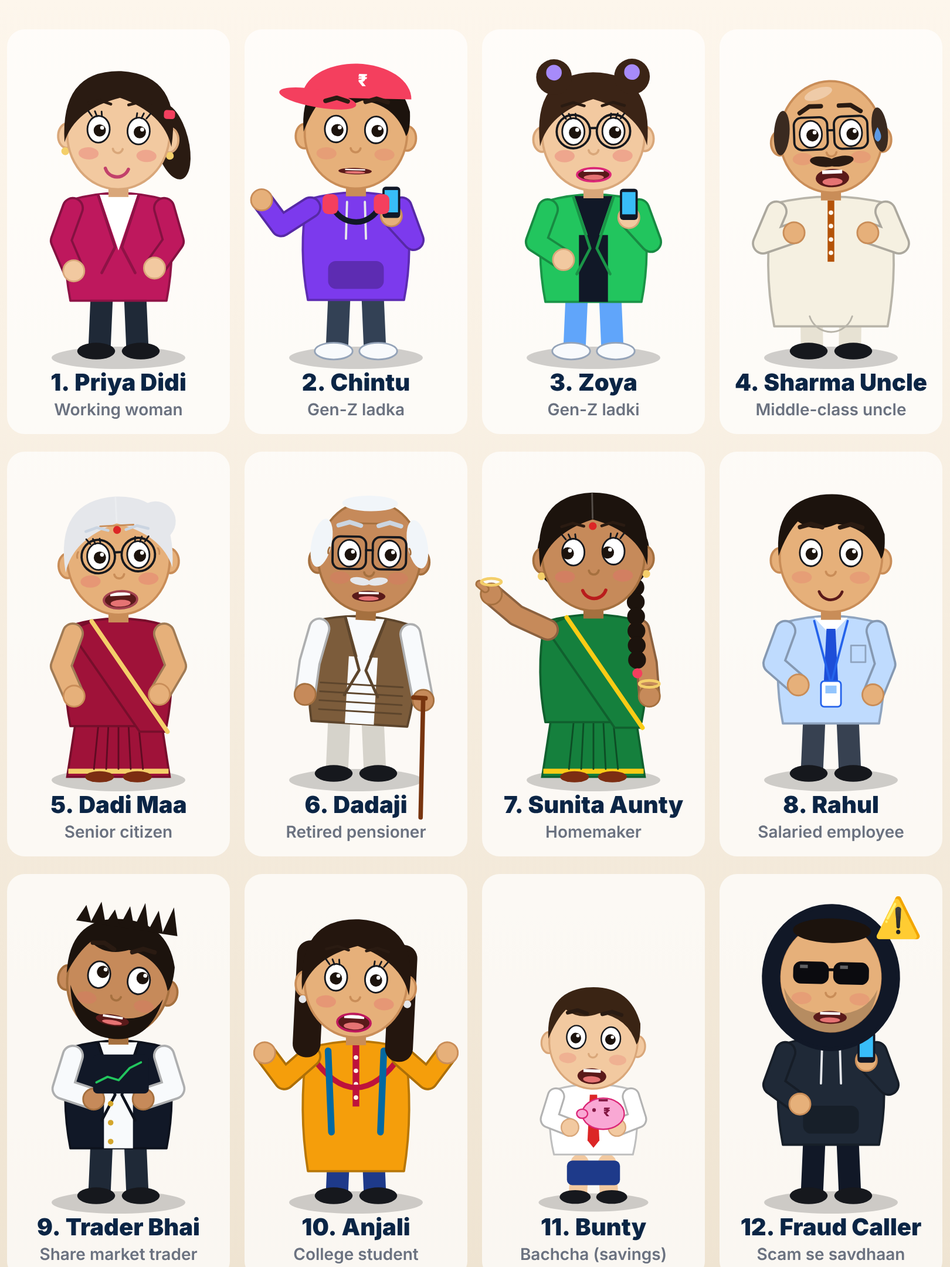
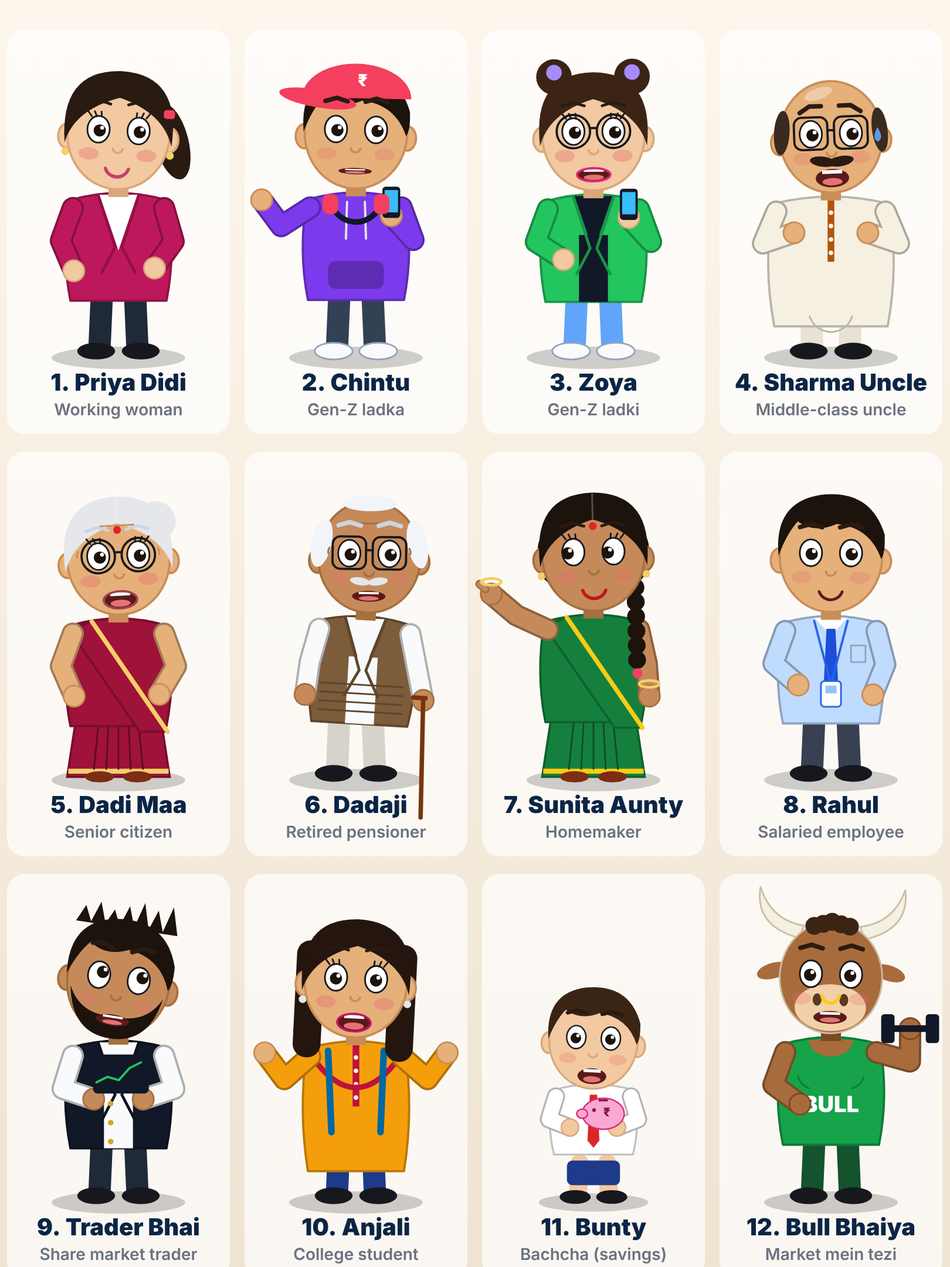
Add 12 more fun cartoon characters (bull, bear, EMI ghost, robot, etc.)
Claude-Session: https://claude.ai/code/session_015sQdHrE7jeFxfbNfg4Vfef

Changed region(s): [[0.7716, 0.7134, 0.9877, 1.0]]

diff --git a/videos/engine/cast.js b/videos/engine/cast.js
@@ -4,7 +4,7 @@
 //   await character(fj, { who: 'chintu', x: 200, y: 1450, scale: 0.7, moods: [{ t0, t1, mood }] , ampFrom: [t0, t1] });
 const cl = (v, a = 0, b = 1) => Math.max(a, Math.min(b, v)), pr = (t, a, b) => cl((t - a) / (b - a));
 const eb = v => { const c1 = 1.70158, c3 = c1 + 1; return 1 + c3 * Math.pow(v - 1, 3) + c1 * Math.pow(v - 1, 2); };
-const SK = { light: ['#f2c9a0', '#d9a77a'], wheat: ['#e6b07a', '#c98d58'], brown: ['#c68a5a', '#a5703f'], dark: ['#9a6640', '#7a4e2e'] };
+const SK = { bull: ['#a86b3c', '#7c4a22'], bear: ['#7a4a2e', '#5a341e'], metal: ['#cbd5e1', '#94a3b8'], light: ['#f2c9a0', '#d9a77a'], wheat: ['#e6b07a', '#c98d58'], brown: ['#c68a5a', '#a5703f'], dark: ['#9a6640', '#7a4e2e'] };
 
 export const CAST = {
   priya: { name: 'Priya Didi', role: 'Working woman', skin: 'light', hair: 'ponytail', hairC: '#2a1b12', female: true, outfit: 'blazer', main: '#be185d', inner: '#ffffff', tie: null, lower: 'pants', lowerC: '#1f2937', earrings: '#f4cf6a', specs: null, lips: '#c2416b' },
@@ -18,6 +18,18 @@ export const CAST = {
   trader: { name: 'Trader Bhai', role: 'Share market trader', skin: 'brown', hair: 'spiky', hairC: '#1c130d', outfit: 'halfjacket', main: '#111827', inner: '#f8fafc', accent: '#d4a62c', lower: 'pants', lowerC: '#1f2937', beard: true, props: ['tablet'] },
   anjali: { name: 'Anjali', role: 'College student', skin: 'wheat', hair: 'long', hairC: '#24160e', female: true, outfit: 'kurti', main: '#f59e0b', accent: '#be123c', lower: 'pants', lowerC: '#1e3a8a', props: ['backpack'], earrings: '#e5e7eb', lips: '#be185d' },
   bunty: { name: 'Bunty', role: 'Bachcha (savings)', skin: 'light', hair: 'short', hairC: '#3a2414', outfit: 'school', main: '#ffffff', accent: '#1e3a8a', tie: '#dc2626', lower: 'shorts', lowerC: '#1e3a8a', kid: true, props: ['piggy'] },
+  bull: { name: 'Bull Bhaiya', role: 'Market mein tezi', species: 'bull', skin: 'bull', hair: 'tuft', hairC: '#3b2414', outfit: 'tank', main: '#16a34a', print: 'BULL', printC: '#ffffff', lower: 'pants', lowerC: '#14532d', snout: '#f2d0a9', props: ['dumbbell'] },
+  bear: { name: 'Bear Bhau', role: 'Market mein mandi', species: 'bear', skin: 'bear', hair: 'none', outfit: 'hoodie', main: '#b91c1c', lower: 'pants', lowerC: '#450a0a', snout: '#d9b48f' },
+  ghost: { name: 'EMI Bhoot', role: 'Loan ka darr', species: 'ghost' },
+  robo: { name: 'RoboBhai', role: 'AI advisor', species: 'robot', skin: 'metal', hair: 'none', outfit: 'robot', main: '#94a3b8', lower: 'pants', lowerC: '#64748b', shoes: '#475569' },
+  tipsguru: { name: 'Tips Guru', role: 'Fake finfluencer', skin: 'wheat', hair: 'shadesup', hairC: '#1c130d', outfit: 'suit', main: '#7e22ce', inner: '#111827', lower: 'pants', lowerC: '#581c87', moustache: 'thin', shoes: '#f8fafc', props: ['chain', 'cash'] },
+  ca: { name: 'CA Saab', role: 'Tax expert', skin: 'light', hair: 'neat', hairC: '#1c130d', outfit: 'shirt', main: '#ffffff', tie: '#0f766e', lower: 'pants', lowerC: '#1f2937', specs: 'square', props: ['calculator'] },
+  manager: { name: 'Manager Madam', role: 'Bank manager', female: true, skin: 'wheat', hair: 'bun', hairC: '#1c130d', outfit: 'blazer', main: '#1e3a8a', inner: '#fde68a', lower: 'pants', lowerC: '#1e293b', specs: 'square', earrings: '#f4cf6a', lips: '#9f1239', props: ['files'] },
+  chaiwala: { name: 'Chaiwala Bhaiya', role: 'UPI wala dukaandaar', skin: 'brown', hair: 'short', hairC: '#1c130d', outfit: 'apron', main: '#fef3c7', accent: '#92400e', lower: 'pants', lowerC: '#57534e', moustache: 'thin', props: ['kettle', 'qr'] },
+  delivery: { name: 'Delivery Bhai', role: 'Gig worker', skin: 'wheat', hair: 'helmet', hairC: '#1c130d', helmetC: '#f97316', outfit: 'tshirt', main: '#f97316', print: '10 MIN ⚡', printC: '#ffffff', lower: 'pants', lowerC: '#1f2937', props: ['deliverybag', 'phone'] },
+  dulhan: { name: 'Neha (Dulhan)', role: 'Shaadi ka budget', female: true, skin: 'light', hair: 'bridal', hairC: '#1c130d', outfit: 'lehenga', main: '#be123c', accent: '#f4cf6a', bindi: true, earrings: '#f4cf6a', lips: '#be123c', props: ['bangles'] },
+  gymbro: { name: 'Gym Bro Vicky', role: 'Paisa bhi gains', skin: 'wheat', hair: 'headband', hairC: '#1c130d', bandC: '#22d3ee', outfit: 'tank', main: '#111827', print: 'GAINS', printC: '#22d3ee', lower: 'shorts', lowerC: '#334155', shoes: '#f8fafc', props: ['dumbbell'] },
+  paaji: { name: 'Gurpreet Paaji', role: 'Business owner', skin: 'wheat', hair: 'turban', hairC: '#1c130d', turbanC: '#f59e0b', outfit: 'kurta', main: '#e0f2fe', accent: '#0369a1', lower: 'pants', lowerC: '#1e293b', beard: true },
   fraud: { name: 'Fraud Caller', role: 'Scam se savdhaan', skin: 'wheat', hair: 'hood', hairC: '#1c130d', outfit: 'hoodie', main: '#1f2937', lower: 'pants', lowerC: '#111827', shades: true, stubble: true, props: ['phone', 'warning'] },
 };
 
@@ -42,16 +54,18 @@ const dark = (hex, k = 0.75) => { const n = parseInt(hex.slice(1), 16); const f 
 export function drawPerson(c, t, X, Y, S, P, mood, lv, flip) {
   const [SKIN, SKIN_D] = SK[P.skin] || SK.wheat, F = !!P.female, K = P.kid ? 0.78 : 1, belly = P.belly || 1;
   c.save(); c.translate(X, Y); c.scale(S * (flip ? -1 : 1), S);
+  if (P.species === 'ghost') { drawGhost(c, t, mood, lv); c.restore(); return; }
   const bob = Math.sin(t * 3.2) * 4, talk = cl(lv * 1.4), shock = mood === 'shock';
   const happy = mood === 'happy' || mood === 'thumbs' || mood === 'wave';
   c.fillStyle = 'rgba(0,0,0,0.18)'; c.beginPath(); c.ellipse(0, 0, 120, 20, 0, 0, 7); c.fill();
   // ---- lower body ----
   const legTop = -110 * K;
-  if (P.outfit === 'saree') {
+  if (P.outfit === 'saree' || P.outfit === 'lehenga') {
     c.fillStyle = P.main; c.strokeStyle = dark(P.main); c.lineWidth = 4;
     c.beginPath(); c.moveTo(-70, -150); c.lineTo(70, -150); c.lineTo(92, -6); c.lineTo(-92, -6); c.closePath(); c.fill(); c.stroke();
     c.strokeStyle = P.accent; c.lineWidth = 9; c.beginPath(); c.moveTo(-90, -16); c.lineTo(90, -16); c.stroke();
     for (let i = -2; i <= 2; i++) limb(c, [[i * 16, -140], [i * 22, -20]], 3, dark(P.main, 0.6));
+    if (P.outfit === 'lehenga') { c.fillStyle = P.accent; for (let i = 0; i < 26; i++) { c.beginPath(); c.arc(-70 + (i * 37) % 140, -130 + Math.floor(i / 4) * 18, 3, 0, 7); c.fill(); } }
     c.fillStyle = '#7c2d12'; [-1, 1].forEach(s => { c.beginPath(); c.ellipse(s * 34, -6, 26, 10, 0, 0, 7); c.fill(); });
   } else {
     const lc = P.lowerC || '#2f3540', sh = P.lower === 'shorts';
@@ -65,11 +79,21 @@ export function drawPerson(c, t, X, Y, S, P, mood, lv, flip) {
   const top = -280 * (P.kid ? 0.86 : 1), bottom = P.outfit === 'kurta' || P.outfit === 'kurti' ? -60 : -100;
   // backpack behind
   if ((P.props || []).includes('backpack')) { c.fillStyle = '#0ea5e9'; c.beginPath(); c.roundRect(-80, top + 20, 160, 150, 30); c.fill(); }
+  if ((P.props || []).includes('deliverybag')) { c.fillStyle = '#16a34a'; c.beginPath(); c.roundRect(-104, top - 30, 208, 190, 16); c.fill(); c.fillStyle = '#fff'; c.font = '900 26px Inter'; c.textAlign = 'center'; c.fillText('FOOD', 0, top - 4); }
   // ---- torso ----
   const tw = 88 * belly, M = P.main, MD = dark(M);
   c.fillStyle = M; c.strokeStyle = MD; c.lineWidth = 4;
   c.beginPath(); c.moveTo(-tw, top); c.quadraticCurveTo(-tw * 1.18, (top + bottom) / 2, -tw * 0.98, bottom); c.lineTo(tw * 0.98, bottom); c.quadraticCurveTo(tw * 1.18, (top + bottom) / 2, tw, top); c.quadraticCurveTo(0, top - 26, -tw, top); c.closePath(); c.fill(); c.stroke();
   const o = P.outfit;
+  if (o === 'suit') { c.fillStyle = P.inner; c.beginPath(); c.moveTo(-34, top - 10); c.lineTo(0, top + 90); c.lineTo(34, top - 10); c.closePath(); c.fill(); limb(c, [[-36, top - 8], [-6, top + 84], [-30, top + 130]], 5, MD); limb(c, [[36, top - 8], [6, top + 84], [30, top + 130]], 5, MD); c.fillStyle = '#f4cf6a'; c.beginPath(); c.moveTo(48, top + 56); c.lineTo(70, top + 50); c.lineTo(66, top + 66); c.closePath(); c.fill(); }
+  if (o === 'tshirt' || o === 'tank' || o === 'apron') {
+    c.fillStyle = SKIN; c.beginPath(); c.ellipse(0, top - 8, o === 'tank' ? 40 : 30, o === 'tank' ? 30 : 18, 0, 0, Math.PI); c.fill();
+    if (o === 'tank') { c.strokeStyle = MD; c.lineWidth = 3; [-1, 1].forEach(s => { c.beginPath(); c.arc(s * 30, top + 50, 30, s > 0 ? 0.3 : 1.9, s > 0 ? 1.3 : 2.9); c.stroke(); }); }
+    if (P.print) { c.fillStyle = P.printC || '#fff'; c.font = `900 ${P.print.length > 6 ? 28 : 40}px Inter, "Noto Color Emoji", sans-serif`; c.textAlign = 'center'; c.textBaseline = 'middle'; c.fillText(P.print, 0, top + 110); }
+    if (o === 'apron') { c.fillStyle = P.accent; c.beginPath(); c.roundRect(-54, top + 40, 108, bottom - top - 30, 10); c.fill(); limb(c, [[-40, top + 44], [-30, top - 6]], 6, P.accent); limb(c, [[40, top + 44], [30, top - 6]], 6, P.accent); c.fillStyle = '#fef3c7'; c.font = '900 30px Inter'; c.textAlign = 'center'; c.fillText('CHAI ☕', 0, top + 110); }
+  }
+  if (o === 'robot') { c.fillStyle = '#1e293b'; c.beginPath(); c.roundRect(-50, top + 40, 100, 80, 10); c.fill(); c.strokeStyle = '#22d3ee'; c.lineWidth = 4; c.beginPath(); [[0, 60], [20, 46], [40, 52], [60, 30], [80, 20]].forEach(([a, b], i) => i ? c.lineTo(-40 + a, top + 40 + b) : c.moveTo(-40 + a, top + 40 + b)); c.stroke(); c.fillStyle = '#64748b'; [[-70, top + 20], [70, top + 20], [-70, bottom - 20], [70, bottom - 20]].forEach(([x, y]) => { c.beginPath(); c.arc(x, y, 6, 0, 7); c.fill(); }); }
+  if (o === 'lehenga') { c.globalAlpha = 0.75; c.fillStyle = P.accent; c.beginPath(); c.moveTo(-tw, top + 4); c.quadraticCurveTo(0, top + 160, tw, top + 4); c.lineTo(tw - 16, top - 6); c.quadraticCurveTo(0, top + 130, -tw + 16, top - 6); c.closePath(); c.fill(); c.globalAlpha = 1; }
   if (o === 'blazer' || o === 'jacket' || o === 'halfjacket' || o === 'sweater') {
     c.fillStyle = P.inner || '#fff'; c.beginPath(); c.moveTo(-34, top - 10); c.lineTo(0, top + 90); c.lineTo(34, top - 10); c.closePath(); c.fill();
     if (o !== 'blazer') { c.fillRect(-26, top + 60, 52, bottom - top - 60); }
@@ -101,6 +125,7 @@ export function drawPerson(c, t, X, Y, S, P, mood, lv, flip) {
   // lanyard
   if ((P.props || []).includes('lanyard')) { limb(c, [[-30, top - 4], [0, top + 110], [30, top - 4]], 4, '#2563eb'); c.fillStyle = '#fff'; c.strokeStyle = '#2563eb'; c.lineWidth = 3; c.beginPath(); c.roundRect(-18, top + 104, 36, 46, 6); c.fill(); c.stroke(); c.fillStyle = '#93c5fd'; c.fillRect(-10, top + 112, 20, 14); }
   if ((P.props || []).includes('backpack')) { limb(c, [[-50, top + 4], [-44, top + 150]], 12, '#0369a1'); limb(c, [[50, top + 4], [44, top + 150]], 12, '#0369a1'); }
+  if ((P.props || []).includes('chain')) { c.strokeStyle = '#facc15'; c.lineWidth = 7; c.beginPath(); c.arc(0, top - 10, 52, 0.4, Math.PI - 0.4); c.stroke(); c.fillStyle = '#facc15'; c.font = '900 34px Inter'; c.textAlign = 'center'; c.fillText('$', 0, top + 50); }
   // ---- arms ----
   const sw = Math.sin(t * 9);
   let L = [-0.22, -0.08, 'fist'], R = [0.22, 0.08, 'fist'];
@@ -118,7 +143,13 @@ export function drawPerson(c, t, X, Y, S, P, mood, lv, flip) {
   if (props.includes('piggy') && !shock) { L = [-0.3, 1.2, 'fist']; R = [0.3, -1.2, 'piggy']; }
   if (props.includes('tablet') && mood !== 'wave' && !shock) { L = [-0.3, 1.25, 'fist']; R = [0.3, -1.25, 'tablet']; }
   if (props.includes('newspaper') && mood === 'talk') { L = [-0.3, 1.25, 'fist']; R = [0.3, -1.25, 'paper']; }
-  const sleeve = o === 'saree' ? SKIN : o === 'halfjacket' || o === 'sweater' ? (P.inner || '#fff') : o === 'kurti' ? P.main : M;
+  if (props.includes('kettle') && !shock && mood !== 'wave') R = [0.3, -1.2, 'kettle'];
+  if (props.includes('qr') && !shock) L = [-0.3, 1.25, 'qr'];
+  if (props.includes('calculator') && !shock && mood !== 'wave') R = [0.3, -1.25, 'calc'];
+  if (props.includes('files') && !shock) L = [-0.3, 1.25, 'files'];
+  if (props.includes('cash') && !shock && mood !== 'wave') R = [1.1, 2.7, 'cash'];
+  if (props.includes('dumbbell') && !shock && mood !== 'wave') R = [1.3, 2.9 + 0.25 * Math.sin(t * 5), 'dumbbell'];
+  const sleeve = o === 'saree' || o === 'tank' || o === 'lehenga' ? SKIN : o === 'halfjacket' || o === 'sweater' ? (P.inner || '#fff') : o === 'kurti' ? P.main : M;
   const armLen = P.kid ? 52 : 62, sy = top + 14;
   const hands = [[-tw + 6, L], [tw - 6, R]].map(([sx, A]) => arm(c, sx, sy, A[0], A[1], armLen, A[2], sleeve, SKIN, SKIN_D, P));
   // ---- head ----
@@ -126,13 +157,17 @@ export function drawPerson(c, t, X, Y, S, P, mood, lv, flip) {
   const tilt = Math.sin(t * 1.7) * 0.05 + (mood === 'think' ? 0.12 : 0) + (shock ? Math.sin(t * 40) * 0.03 : 0);
   const HY = top - 120 * (P.kid ? 0.9 : 1);
   c.save(); c.translate(0, HY); c.rotate(tilt); if (P.kid) c.scale(1.05, 1.05);
+  if (P.species === 'robot') { robotHead(c, t, talk, mood); } else {
   hairBack(c, P);
   c.fillStyle = SKIN; c.strokeStyle = SKIN_D; c.lineWidth = 4;
-  [-1, 1].forEach(s => { c.beginPath(); c.ellipse(s * 92, 8, 16, 22, 0, 0, 7); c.fill(); c.stroke(); });
+  if (P.species === 'bull') { [-1, 1].forEach(s => { c.fillStyle = '#f5f0e1'; c.strokeStyle = '#c9bfa6'; c.lineWidth = 3; c.beginPath(); c.moveTo(s * 60, -70); c.quadraticCurveTo(s * 140, -90, s * 130, -160); c.quadraticCurveTo(s * 110, -100, s * 50, -92); c.closePath(); c.fill(); c.stroke(); c.fillStyle = SKIN; c.beginPath(); c.ellipse(s * 104, -10, 30, 14, s * 0.3, 0, 7); c.fill(); }); }
+  else if (P.species === 'bear') { [-1, 1].forEach(s => { c.fillStyle = SKIN; c.beginPath(); c.arc(s * 66, -80, 30, 0, 7); c.fill(); c.fillStyle = P.snout; c.beginPath(); c.arc(s * 66, -80, 15, 0, 7); c.fill(); }); c.fillStyle = SKIN; }
+  else [-1, 1].forEach(s => { c.beginPath(); c.ellipse(s * 92, 8, 16, 22, 0, 0, 7); c.fill(); c.stroke(); });
   if (P.earrings) [-1, 1].forEach(s => { c.fillStyle = P.earrings; c.beginPath(); c.arc(s * 94, 36, 7, 0, 7); c.fill(); });
   c.fillStyle = SKIN; c.beginPath(); c.ellipse(0, 0, 92, 100, 0, 0, 7); c.fill(); c.stroke();
   if (P.stubble || P.beard) { c.fillStyle = P.beard ? '#1c130d' : 'rgba(40,30,25,0.25)'; c.beginPath(); c.moveTo(-84, 20); c.quadraticCurveTo(-70, 104, 0, 104); c.quadraticCurveTo(70, 104, 84, 20); c.quadraticCurveTo(60, 70, 0, 64); c.quadraticCurveTo(-60, 70, -84, 20); c.fill(); }
   hairFront(c, P, t);
+  if (P.snout) { c.fillStyle = P.snout; c.beginPath(); c.ellipse(0, 54, P.species === 'bull' ? 64 : 52, P.species === 'bull' ? 42 : 36, 0, 0, 7); c.fill(); if (P.species === 'bull') { c.fillStyle = '#5a3a22'; [-1, 1].forEach(s => { c.beginPath(); c.ellipse(s * 24, 40, 8, 11, 0, 0, 7); c.fill(); }); c.strokeStyle = '#facc15'; c.lineWidth = 6; c.beginPath(); c.arc(0, 30, 16, 0.2, Math.PI - 0.2); c.stroke(); } else { c.fillStyle = '#1c130d'; c.beginPath(); c.ellipse(0, 30, 16, 11, 0, 0, 7); c.fill(); } }
   c.fillStyle = 'rgba(232,110,110,' + (F ? 0.38 : 0.26) + ')'; [-1, 1].forEach(s => { c.beginPath(); c.ellipse(s * 52, 38, 18, 11, 0, 0, 7); c.fill(); });
   if (P.wrinkles) { c.strokeStyle = SKIN_D; c.lineWidth = 3; [-1, 1].forEach(s => { c.beginPath(); c.arc(s * 60, -8, 14, s > 0 ? -0.6 : Math.PI - 0.2, s > 0 ? 0.2 : Math.PI + 0.6); c.stroke(); }); limb(c, [[-30, -60], [30, -60]], 3, SKIN_D); }
   // eyes
@@ -156,7 +191,7 @@ export function drawPerson(c, t, X, Y, S, P, mood, lv, flip) {
   const browC = P.hair === 'white' || P.hair === 'whitebun' ? '#cbd5e1' : '#2a1b12';
   if (!P.shades) [-1, 1].forEach(s => { c.save(); c.translate(s * 36, -46 + bU); c.rotate(s * bA); limb(c, [[-20, 2], [0, -4], [20, 2]], F ? 5 : 8, browC); c.restore(); });
   if (P.bindi) { c.fillStyle = '#dc2626'; c.beginPath(); c.arc(0, -52, 7, 0, 7); c.fill(); }
-  c.strokeStyle = SKIN_D; c.lineWidth = 4; c.beginPath(); c.arc(0, 26, 9, 0.2, Math.PI - 0.2); c.stroke();
+  if (!P.species) { c.strokeStyle = SKIN_D; c.lineWidth = 4; c.beginPath(); c.arc(0, 26, 9, 0.2, Math.PI - 0.2); c.stroke(); }
   if (P.moustache) { c.fillStyle = P.moustache === 'white' ? '#e5e7eb' : '#2a1b12'; const k = P.moustache === 'thick' ? 1.3 : 1; c.beginPath(); c.ellipse(-16, 44, 18 * k, 7 * k, 0.15, 0, 7); c.ellipse(16, 44, 18 * k, 7 * k, -0.15, 0, 7); c.fill(); }
   // mouth
   const mo = shock ? 0.75 + talk * 0.25 : talk, mc = P.lips || '#5a1a1a';
@@ -172,6 +207,7 @@ export function drawPerson(c, t, X, Y, S, P, mood, lv, flip) {
     c.stroke();
   }
   if (mood === 'worried' || shock) { const d = (t * 0.8) % 1; c.fillStyle = 'rgba(96,165,250,0.9)'; c.beginPath(); c.moveTo(84, -40 + d * 30); c.quadraticCurveTo(96, -20 + d * 30, 84, -14 + d * 30); c.quadraticCurveTo(72, -20 + d * 30, 84, -40 + d * 30); c.fill(); }
+  }
   c.restore();
   // headphones around neck
   if (props.includes('headphones')) { c.strokeStyle = '#111827'; c.lineWidth = 10; c.beginPath(); c.arc(0, top - 6, 46, 0.15, Math.PI - 0.15); c.stroke(); [-1, 1].forEach(s => { c.fillStyle = '#f43f5e'; c.beginPath(); c.roundRect(s * 46 - 14, top - 10, 28, 36, 10); c.fill(); }); }
@@ -190,13 +226,19 @@ function arm(c, sx, sy, a1, a2, len, hand, sleeve, SKIN, SKIN_D, P) {
   if (hand === 'stick') { limb(c, [[hx, hy], [hx + 8, hy + 210]], 8, '#78350f'); limb(c, [[hx - 18, hy - 4], [hx + 4, hy - 4]], 8, '#78350f'); }
   if (hand === 'piggy') { c.fillStyle = '#f9a8d4'; c.strokeStyle = '#db2777'; c.lineWidth = 3; c.beginPath(); c.ellipse(hx - 30, hy - 30, 46, 34, 0, 0, 7); c.fill(); c.stroke(); c.beginPath(); c.ellipse(hx - 76, hy - 30, 12, 10, 0, 0, 7); c.fill(); c.stroke(); c.fillStyle = '#831843'; c.fillRect(hx - 40, hy - 62, 20, 5); c.beginPath(); c.arc(hx - 50, hy - 38, 4, 0, 7); c.fill(); c.font = '900 26px Inter'; c.textAlign = 'center'; c.fillText('₹', hx - 22, hy - 24); }
   if (hand === 'tablet') { c.fillStyle = '#111827'; c.beginPath(); c.roundRect(hx - 90, hy - 80, 100, 70, 8); c.fill(); c.strokeStyle = '#22c55e'; c.lineWidth = 4; c.beginPath(); [[0, 50], [20, 40], [40, 46], [60, 24], [80, 14]].forEach(([a, b], i) => i ? c.lineTo(hx - 84 + a, hy - 80 + b) : c.moveTo(hx - 84 + a, hy - 80 + b)); c.stroke(); }
+  if (hand === 'kettle') { c.fillStyle = '#9ca3af'; c.strokeStyle = '#4b5563'; c.lineWidth = 3; c.beginPath(); c.ellipse(hx + 6, hy - 40, 34, 28, 0, 0, 7); c.fill(); c.stroke(); limb(c, [[hx + 38, hy - 46], [hx + 66, hy - 66]], 8, '#6b7280'); c.beginPath(); c.arc(hx + 6, hy - 70, 8, 0, 7); c.fillStyle = '#4b5563'; c.fill(); for (let k = 0; k < 3; k++) limb(c, [[hx - 10 + k * 14, hy - 96], [hx - 4 + k * 14, hy - 120]], 4, 'rgba(255,255,255,0.7)'); }
+  if (hand === 'qr') { c.fillStyle = '#fff'; c.strokeStyle = '#111'; c.lineWidth = 4; c.beginPath(); c.rect(hx - 50, hy - 110, 100, 110); c.fill(); c.stroke(); c.fillStyle = '#111'; for (let i = 0; i < 7; i++) for (let j = 0; j < 7; j++) if ((i * 7 + j * 3) % 4 < 2 || (i < 2 && j < 2)) c.fillRect(hx - 42 + i * 12, hy - 102 + j * 12, 10, 10); c.font = '900 16px Inter'; c.textAlign = 'center'; c.fillText('UPI', hx, hy - 12); }
+  if (hand === 'calc') { c.fillStyle = '#334155'; c.beginPath(); c.roundRect(hx - 70, hy - 96, 70, 96, 8); c.fill(); c.fillStyle = '#a7f3d0'; c.fillRect(hx - 62, hy - 88, 54, 20); c.fillStyle = '#e2e8f0'; for (let i = 0; i < 3; i++) for (let j = 0; j < 3; j++) c.fillRect(hx - 62 + i * 18, hy - 60 + j * 18, 14, 14); }
+  if (hand === 'files') { ['#f59e0b', '#3b82f6', '#ef4444'].forEach((col, i) => { c.fillStyle = col; c.fillRect(hx - 10 + i * 4, hy - 100 + i * 6, 80, 96); }); c.fillStyle = '#fff'; c.font = '900 16px Inter'; c.textAlign = 'center'; c.fillText('LOAN', hx + 38, hy - 40); }
+  if (hand === 'cash') { for (let i = -3; i <= 3; i++) { c.save(); c.translate(hx, hy - 10); c.rotate(i * 0.18); c.fillStyle = '#86efac'; c.strokeStyle = '#15803d'; c.lineWidth = 2; c.fillRect(-14, -90, 28, 80); c.strokeRect(-14, -90, 28, 80); c.fillStyle = '#15803d'; c.font = '900 18px Inter'; c.textAlign = 'center'; c.fillText('₹', 0, -50); c.restore(); } }
+  if (hand === 'dumbbell') { c.fillStyle = '#111827'; c.fillRect(hx - 40, hy - 6, 80, 12); [-1, 1].forEach(s => { c.beginPath(); c.roundRect(hx + s * 40 - 12, hy - 26, 24, 52, 6); c.fill(); }); }
   if (hand === 'paper') { c.fillStyle = '#f8fafc'; c.strokeStyle = '#94a3b8'; c.lineWidth = 2; c.beginPath(); c.rect(hx - 100, hy - 90, 100, 80); c.fill(); c.stroke(); c.fillStyle = '#334155'; c.font = '900 14px Inter'; c.textAlign = 'left'; c.fillText('SENSEX', hx - 92, hy - 70); for (let i = 0; i < 4; i++) c.fillRect(hx - 92, hy - 60 + i * 11, 80, 4); }
   return [hx, hy];
 }
 
 function hairBack(c, P) {
   c.fillStyle = P.hairC;
-  if (P.hair === 'long') { [-1, 1].forEach(k => { c.beginPath(); c.roundRect(k > 0 ? 58 : -108, -70, 50, 210, 24); c.fill(); }); }
+  if (P.hair === 'long' || P.hair === 'bridal') { [-1, 1].forEach(k => { c.beginPath(); c.roundRect(k > 0 ? 58 : -108, -70, 50, 210, 24); c.fill(); }); }
   if (P.hair === 'braid') { c.beginPath(); c.roundRect(-100, -60, 200, 120, 50); c.fill(); for (let i = 0; i < 6; i++) { c.beginPath(); c.ellipse(74, 60 + i * 26, 16, 16, 0, 0, 7); c.fill(); } c.fillStyle = '#f43f5e'; c.beginPath(); c.arc(74, 214, 9, 0, 7); c.fill(); }
   if (P.hair === 'ponytail') { c.beginPath(); c.ellipse(96, 10, 30, 70, -0.3, 0, 7); c.fill(); }
   if (P.hair === 'whitebun') { c.beginPath(); c.arc(70, -64, 36, 0, 7); c.fill(); }
@@ -218,5 +260,42 @@ function hairFront(c, P, t) {
     if (h === 'ponytail') { c.fillStyle = '#f43f5e'; c.beginPath(); c.roundRect(80, -46, 20, 16, 5); c.fill(); }
   }
   if (h === 'buns2') [-1, 1].forEach(s => { c.fillStyle = P.hairC; c.beginPath(); c.arc(s * 70, -104, 32, 0, 7); c.fill(); c.fillStyle = P.hairTip; c.beginPath(); c.arc(s * 70, -112, 14, 0, 7); c.fill(); });
+  if (h === 'neat' || h === 'shadesup' || h === 'headband') { c.beginPath(); c.moveTo(-94, 0); c.quadraticCurveTo(-100, -100, 0, -108); c.quadraticCurveTo(100, -104, 94, 0); c.quadraticCurveTo(80, -56, 20, -62); c.lineTo(-30, -66); c.quadraticCurveTo(-80, -50, -94, 0); c.fill(); if (h === 'neat') { c.strokeStyle = 'rgba(255,255,255,0.5)'; c.lineWidth = 4; c.beginPath(); c.moveTo(-30, -104); c.quadraticCurveTo(-36, -84, -30, -66); c.stroke(); } }
+  if (h === 'shadesup') { c.fillStyle = '#0b0b0f'; [-1, 1].forEach(s => { c.beginPath(); c.roundRect(s * 34 - 30, -104, 60, 30, 12); c.fill(); }); }
+  if (h === 'headband') { c.fillStyle = P.bandC; c.fillRect(-94, -70, 188, 22); c.beginPath(); c.moveTo(90, -64); c.lineTo(122, -40); c.lineTo(112, -30); c.closePath(); c.fill(); }
+  if (h === 'bun' || h === 'bridal') { c.beginPath(); c.moveTo(-96, 20); c.quadraticCurveTo(-110, -110, 0, -112); c.quadraticCurveTo(110, -110, 96, 20); c.quadraticCurveTo(80, -40, 0, -64); c.quadraticCurveTo(-80, -40, -96, 20); c.closePath(); c.fill(); if (h === 'bun') { c.beginPath(); c.arc(0, -116, 30, 0, 7); c.fill(); } else { c.strokeStyle = '#facc15'; c.lineWidth = 4; c.beginPath(); c.moveTo(0, -110); c.lineTo(0, -66); c.stroke(); c.fillStyle = '#facc15'; c.beginPath(); c.arc(0, -60, 10, 0, 7); c.fill(); c.fillStyle = '#dc2626'; c.beginPath(); c.arc(0, -58, 4, 0, 7); c.fill(); } }
+  if (h === 'helmet') { c.fillStyle = P.helmetC; c.beginPath(); c.ellipse(0, -40, 104, 92, 0, Math.PI, 0); c.fill(); c.fillRect(-104, -42, 208, 18); c.fillStyle = 'rgba(15,23,42,0.6)'; c.beginPath(); c.ellipse(0, -96, 70, 22, 0, 0, 7); c.fill(); }
+  if (h === 'turban') { c.fillStyle = P.turbanC; c.beginPath(); c.moveTo(-98, -10); c.quadraticCurveTo(-110, -150, 0, -150); c.quadraticCurveTo(110, -150, 98, -10); c.quadraticCurveTo(60, -60, 0, -54); c.quadraticCurveTo(-60, -60, -98, -10); c.fill(); c.strokeStyle = dark(P.turbanC); c.lineWidth = 4; for (let k = 0; k < 3; k++) { c.beginPath(); c.moveTo(-90 + k * 10, -30 - k * 30); c.quadraticCurveTo(0, -90 - k * 30, 90 - k * 10, -40 - k * 26); c.stroke(); } }
+  if (h === 'tuft') { for (let k = -2; k <= 2; k++) { c.beginPath(); c.arc(k * 16, -100 - Math.abs(k) * -4, 16, 0, 7); c.fill(); } }
   if (h === 'hood') { c.strokeStyle = '#111827'; c.lineWidth = 26; c.beginPath(); c.ellipse(0, 0, 104, 112, 0, 0, 7); c.stroke(); c.fillStyle = P.hairC; c.beginPath(); c.ellipse(0, -84, 70, 22, 0, 0, 7); c.fill(); }
+}
+
+function robotHead(c, t, talk, mood) {
+  limb(c, [[0, -100], [0, -150]], 6, '#64748b'); c.fillStyle = (t % 1.2) < 0.6 ? '#ef4444' : '#7f1d1d'; c.beginPath(); c.arc(0, -156, 12, 0, 7); c.fill();
+  const g = c.createLinearGradient(0, -100, 0, 100); g.addColorStop(0, '#e2e8f0'); g.addColorStop(1, '#94a3b8');
+  c.fillStyle = g; c.strokeStyle = '#64748b'; c.lineWidth = 5; c.beginPath(); c.roundRect(-100, -100, 200, 196, 40); c.fill(); c.stroke();
+  [-1, 1].forEach(s => { c.fillStyle = '#64748b'; c.beginPath(); c.roundRect(s * 100 - (s > 0 ? 0 : 20), -30, 20, 60, 8); c.fill(); });
+  c.fillStyle = '#0f172a'; c.beginPath(); c.roundRect(-80, -62, 160, 78, 24); c.fill();
+  const bl = (t % 2.7) < 0.15 ? 0.2 : 1, sh = mood === 'shock';
+  [-1, 1].forEach(s => { c.fillStyle = '#22d3ee'; c.beginPath(); c.roundRect(s * 38 - 18, -36 - (sh ? 8 : 0), 36, (sh ? 36 : 26) * bl, 8); c.fill(); });
+  c.fillStyle = '#0f172a'; c.beginPath(); c.roundRect(-56, 36, 112, 40, 12); c.fill();
+  for (let i = 0; i < 7; i++) { const h = 6 + 26 * talk * (0.5 + 0.5 * Math.abs(Math.sin(t * 20 + i))); c.fillStyle = '#22d3ee'; c.fillRect(-46 + i * 14, 56 - h / 2, 8, h); }
+}
+function drawGhost(c, t, mood, lv) {
+  const fy = -40 + Math.sin(t * 2.4) * 14, talk = cl(lv * 1.4);
+  c.fillStyle = 'rgba(0,0,0,0.12)'; c.beginPath(); c.ellipse(0, 0, 80, 14, 0, 0, 7); c.fill();
+  c.save(); c.translate(0, fy);
+  c.fillStyle = 'rgba(248,250,252,0.96)'; c.strokeStyle = '#cbd5e1'; c.lineWidth = 4; c.beginPath();
+  c.moveTo(-110, -60); c.quadraticCurveTo(-110, -420, 0, -420); c.quadraticCurveTo(110, -420, 110, -60);
+  for (let i = 0; i < 5; i++) { const x0 = 110 - i * 44, w = Math.sin(t * 6 + i) * 10; c.quadraticCurveTo(x0 - 22, -20 + w, x0 - 44, -60); }
+  c.closePath(); c.fill(); c.stroke();
+  const wave = mood === 'wave' ? Math.sin(t * 9) * 0.5 : 0;
+  [-1, 1].forEach(s => { c.save(); c.translate(s * 100, -220); c.rotate(s * (0.8 + (s > 0 ? wave : 0))); c.fillStyle = 'rgba(248,250,252,0.96)'; c.beginPath(); c.ellipse(s * 26, 0, 40, 18, 0, 0, 7); c.fill(); c.stroke(); c.restore(); });
+  const bl = (t % 3.3) < 0.12 ? 0.15 : 1;
+  [-1, 1].forEach(s => { c.save(); c.translate(s * 40, -300); c.scale(1, bl); c.fillStyle = '#111827'; c.beginPath(); c.ellipse(0, 0, 20, 30, 0, 0, 7); c.fill(); c.fillStyle = '#fff'; c.beginPath(); c.arc(6, -10, 6, 0, 7); c.fill(); c.restore(); });
+  c.fillStyle = 'rgba(244,114,182,0.4)'; [-1, 1].forEach(s => { c.beginPath(); c.ellipse(s * 66, -260, 18, 10, 0, 0, 7); c.fill(); });
+  c.fillStyle = '#111827'; c.beginPath(); c.ellipse(0, -240, 20 + 6 * talk, 10 + 26 * talk, 0, 0, 7); c.fill();
+  c.fillStyle = '#dc2626'; c.beginPath(); c.roundRect(-58, -170, 116, 60, 10); c.fill(); c.fillStyle = '#fff'; c.font = '900 38px Inter'; c.textAlign = 'center'; c.textBaseline = 'middle'; c.fillText('EMI ₹', 0, -138);
+  limb(c, [[-40, -170], [-10, -200], [20, -170]], 4, '#9ca3af');
+  c.restore();
 }

diff --git a/videos/styles/cast-test-2/index.html b/videos/styles/cast-test-2/index.html
@@ -1,0 +1,23 @@
+<!doctype html><html><head><meta charset="utf-8"><title>Cast</title><style>html,body{margin:0;background:#000}</style></head>
+<body><script type="module">
+import { CAST, drawPerson } from '/engine/cast.js';
+const W = 1620, H = 2160; // 4 cols x 3 rows
+const out = document.createElement('canvas'); out.width = W; out.height = H; out.id = 'out'; document.body.appendChild(out);
+const c = out.getContext('2d');
+await Promise.all(['900','700','600'].map(w => document.fonts.load(`${w} 40px Inter`))); await document.fonts.load('40px "Noto Color Emoji"', '👍⚠₹');
+const d13 = true;
+const keys = ['bull','bear','ghost','robo','tipsguru','ca','manager','chaiwala','delivery','dulhan','gymbro','paaji'];
+const moods = ['thumbs','worried','talk','talk','happy','think','talk','talk','wave','happy','thumbs','talk'];
+window.DUR = 4;
+window.renderFrame = t => {
+  const g = c.createLinearGradient(0,0,0,H); g.addColorStop(0,'#fdf6ec'); g.addColorStop(1,'#efe4d2'); c.fillStyle = g; c.fillRect(0,0,W,H);
+  keys.forEach((k, i) => {
+    const col = i % 4, row = Math.floor(i / 4), cx = 202 + col * 405, by = 610 + row * 720;
+    c.fillStyle = 'rgba(255,255,255,0.7)'; c.beginPath(); c.roundRect(cx - 190, by - 560, 380, 690, 30); c.fill();
+    drawPerson(c, t + i * 0.37, cx, by, CAST[k].kid ? 0.78 : 0.95, CAST[k], moods[i], 0.25 + 0.25 * Math.sin(t * 9 + i), false);
+    c.textAlign = 'center'; c.fillStyle = '#0b2545'; c.font = '900 40px Inter'; { const lbl = `${i + (d13 ? 13 : 1)}. ${CAST[k].name}`; const m = c.measureText(lbl).width; if (m > 360) c.font = `900 ${Math.floor(40 * 360 / m)}px Inter`; } c.fillText(`${i + 13}. ${CAST[k].name}`, cx, by + 56);
+    c.fillStyle = '#6b7280'; c.font = '600 28px Inter'; c.fillText(CAST[k].role, cx, by + 98);
+  });
+};
+renderFrame(0); window.READY = true;
+</script></body></html>

diff --git a/videos/styles/cast-test/index.html b/videos/styles/cast-test/index.html
@@ -5,6 +5,7 @@ const W = 1620, H = 2160; // 4 cols x 3 rows
 const out = document.createElement('canvas'); out.width = W; out.height = H; out.id = 'out'; document.body.appendChild(out);
 const c = out.getContext('2d');
 await Promise.all(['900','700','600'].map(w => document.fonts.load(`${w} 40px Inter`))); await document.fonts.load('40px "Noto Color Emoji"', '👍⚠₹');
+const d13 = false;
 const keys = Object.keys(CAST);
 const moods = ['talk','happy','talk','worried','talk','thumbs','point','talk','think','happy','happy','talk'];
 window.DUR = 4;
@@ -14,7 +15,7 @@ window.renderFrame = t => {
     const col = i % 4, row = Math.floor(i / 4), cx = 202 + col * 405, by = 610 + row * 720;
     c.fillStyle = 'rgba(255,255,255,0.7)'; c.beginPath(); c.roundRect(cx - 190, by - 560, 380, 690, 30); c.fill();
     drawPerson(c, t + i * 0.37, cx, by, CAST[k].kid ? 0.78 : 0.95, CAST[k], moods[i], 0.25 + 0.25 * Math.sin(t * 9 + i), false);
-    c.textAlign = 'center'; c.fillStyle = '#0b2545'; c.font = '900 40px Inter'; c.fillText(`${i + 1}. ${CAST[k].name}`, cx, by + 56);
+    c.textAlign = 'center'; c.fillStyle = '#0b2545'; c.font = '900 40px Inter'; { const lbl = `${i + (d13 ? 13 : 1)}. ${CAST[k].name}`; const m = c.measureText(lbl).width; if (m > 360) c.font = `900 ${Math.floor(40 * 360 / m)}px Inter`; } c.fillText(`${i + 1}. ${CAST[k].name}`, cx, by + 56);
     c.fillStyle = '#6b7280'; c.font = '600 28px Inter'; c.fillText(CAST[k].role, cx, by + 98);
   });
 };
